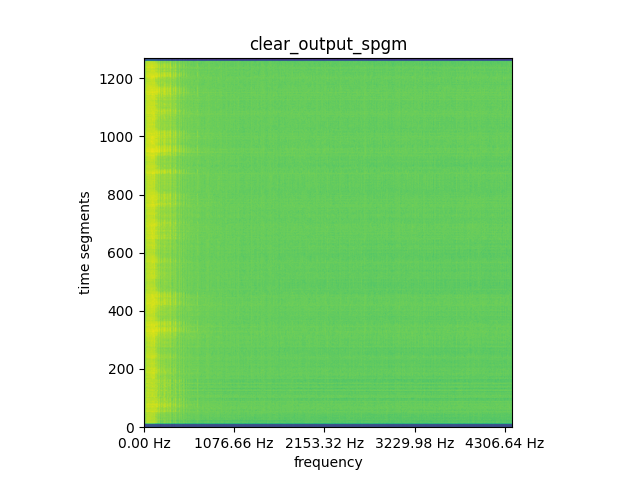
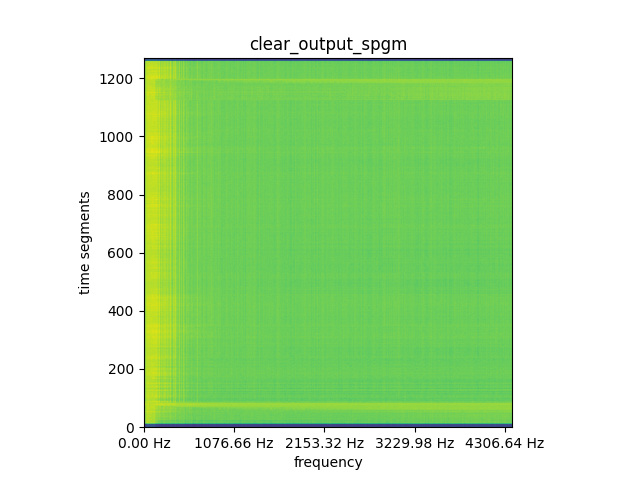
piano basis vectors in drnn

diff --git a/brahms_restore_ml/drnn/model.py b/brahms_restore_ml/drnn/model.py
@@ -2,6 +2,7 @@ import tensorflow as tf
 from tensorflow.keras.layers import Input, SimpleRNN, Dense, TimeDistributed, Layer, LSTM, Bidirectional, BatchNormalization, Concatenate
 from tensorflow.keras.models import Model
 from ..nmf.nmf import NUM_SCORE_NOTES
+from .drnn import TRAIN_SEQ_LEN
 
 class Standardize(Layer):
     def __init__(self, mean, std, **kwargs):
@@ -39,7 +40,7 @@ class TimeFreqMasking(Layer):
     def call(self, inputs):
         y_hat_self, y_hat_other, x_mixed = inputs
         mask = tf.abs(y_hat_self) / (tf.abs(y_hat_self) + tf.abs(y_hat_other) + self.epsilon)
-        y_tilde_self = mask * x_mixed
+        y_tilde_self = mask[:, :TRAIN_SEQ_LEN, :] * x_mixed
         return y_tilde_self
     
     # config only contains things in __init__
@@ -68,6 +69,14 @@ def discrim_loss(y_true, y_pred):
     )
     
 
+def is_last_rnn(num_layers, first_layer_type, rnn_index):
+    if first_layer_type == 'Dense':
+        return ((num_layers == 4 and rnn_index == 1) or 
+                (num_layers == 5 and rnn_index == 2))
+    else:
+        return ((num_layers == 3 and rnn_index == 1) or 
+                (num_layers == 4 and rnn_index == 2))
+
 def make_model(features, sequences, name='Model', epsilon=10 ** (-10),
                     loss_const=0.05, config=None, t_mean=None, t_std=None, 
                     optimizer=tf.keras.optimizers.RMSprop(),
@@ -84,30 +93,38 @@ def make_model(features, sequences, name='Model', epsilon=10 ** (-10),
 
     if config is not None:
         num_layers = len(config['layers'])
-        prev_layer_type = None  # Works b/c all RNN stacks are size > 1
+        rnn_index = -1
+        prev_layer_type, first_layer_type = None, None  # Works b/c all RNN stacks are size > 1
         for i in range(num_layers):
             layer_config = config['layers'][i]
             curr_layer_type = layer_config['type']
+            if i == 0:
+                first_layer_type = curr_layer_type
+            if curr_layer_type == 'RNN':    # Works b/c RNN layers contiguous
+                rnn_index += 1
 
             # Standardize option
             if config['scale'] and i == 0:
                 x = Standardize(t_mean, t_std) (input_layer)
 
-            # Add skip connection if necessary
+            # Add skip connection if necessary (and not using bv's)
             if (config['rnn_res_cntn'] and prev_layer_type is not None and
-                prev_layer_type != 'Dense' and curr_layer_type == 'Dense'):
+                    prev_layer_type != 'Dense' and curr_layer_type == 'Dense' and #):
+                    not use_bv):
                 x = Concatenate() ([x, input_layer])
     
             if curr_layer_type == 'RNN':
                 if config['bidir']:
-                    x = Bidirectional(SimpleRNN(features // layer_config['nrn_div'], 
+                    x = Bidirectional(SimpleRNN(features if (use_bv and is_last_rnn(num_layers, first_layer_type, rnn_index)) else 
+                                                features // layer_config['nrn_div'], 
                             activation=layer_config['act'], 
                             use_bias=config['bias_rnn'],
                             dropout=config['rnn_dropout'][0],
                             recurrent_dropout=config['rnn_dropout'][1],
                             return_sequences=True)) (input_layer if (i == 0 and not config['scale']) else x)
                 else:
-                    x = SimpleRNN(features // layer_config['nrn_div'], 
+                    x = SimpleRNN(features if (use_bv and is_last_rnn(num_layers, first_layer_type, rnn_index)) else 
+                                  features // layer_config['nrn_div'], 
                             activation=layer_config['act'], 
                             use_bias=config['bias_rnn'],
                             dropout=config['rnn_dropout'][0],
@@ -116,14 +133,16 @@ def make_model(features, sequences, name='Model', epsilon=10 ** (-10),
 
             elif curr_layer_type == 'LSTM':
                 if config['bidir']:
-                    x = Bidirectional(LSTM(features // layer_config['nrn_div'], 
+                    x = Bidirectional(LSTM(features if (use_bv and is_last_rnn(num_layers, first_layer_type, rnn_index)) else 
+                                           features // layer_config['nrn_div'], 
                             activation=layer_config['act'], 
                             use_bias=config['bias_rnn'],
                             dropout=config['rnn_dropout'][0],
                             recurrent_dropout=config['rnn_dropout'][1],
                             return_sequences=True)) (input_layer if (i == 0 and not config['scale']) else x)
                 else:
-                    x = LSTM(features // layer_config['nrn_div'], 
+                    x = LSTM(features if (use_bv and is_last_rnn(num_layers, first_layer_type, rnn_index)) else 
+                             features // layer_config['nrn_div'],
                             activation=layer_config['act'], 
                             use_bias=config['bias_rnn'],
                             dropout=config['rnn_dropout'][0],
@@ -133,6 +152,10 @@ def make_model(features, sequences, name='Model', epsilon=10 ** (-10),
                 if i == (num_layers - 1):   # Last layer is fork layer
                     # Reverse standardization at end of model if appropriate
                     if config['scale']:
+                        if use_bv:  # new
+                            stdized_bv_input = Standardize(t_mean, t_std) (bv_input)
+                            x = Concatenate(axis=-2) ([stdized_bv_input, x])
+
                         piano_hat = TimeDistributed(Dense(features // layer_config['nrn_div'],
                                                         activation=layer_config['act'], 
                                                         use_bias=config['bias_dense']), 
@@ -151,6 +174,9 @@ def make_model(features, sequences, name='Model', epsilon=10 ** (-10),
                         noise_hat = UnStandardize(t_mean, t_std) (noise_hat)
                 
                     else:
+                        if use_bv:  # new
+                            x = Concatenate(axis=-2) ([bv_input, x])
+
                         piano_hat = TimeDistributed(Dense(features // layer_config['nrn_div'],
                                                         activation=layer_config['act'], 
                                                         use_bias=config['bias_dense']), 
@@ -364,7 +390,13 @@ def make_model(features, sequences, name='Model', epsilon=10 ** (-10),
         x = SimpleRNN(features // 2, 
                     activation='relu', 
                     return_sequences=True) (input_layer) 
-        x = SimpleRNN(features // 2, 
+        if use_bv:  # new
+            x = SimpleRNN(features, 
+                    activation='relu',
+                    return_sequences=True) (x)
+            x = Concatenate(axis=-2) ([bv_input, x])    # TODO: bvs before or after music in time?
+        else:
+            x = SimpleRNN(features // 2, 
                 activation='relu',
                 return_sequences=True) (x)
         piano_hat = TimeDistributed(Dense(features), name='piano_hat') (x)  # source 1 branch

diff --git a/brahms_restore_ml/drnn/drnn.py b/brahms_restore_ml/drnn/drnn.py
@@ -95,22 +95,27 @@ def evaluate_source_sep(x_train_files, y1_train_files, y2_train_files,
     optimizer = (tf.keras.optimizers.RMSprop(clipvalue=opt_clip_val, learning_rate=opt_lr) if 
                     opt_name == 'RMSprop' else
                 tf.keras.optimizers.Adam(clipvalue=opt_clip_val, learning_rate=opt_lr))
+    # Instantiate piano basis vectors if needed
+    piano_basis_vectors = None
+    if use_basis_vectors:
+        piano_basis_vectors = get_basis_vectors(PIANO_WDW_SIZE, ova=True, avg=True, debug=False, a430hz=tuned_a430hz, 
+            score=True, filepath=os.path.dirname(os.path.realpath(__file__)) + '/../nmf/np_saves_bv/basis_vectors')
 
     # Note - If not numpy, consider if dataset2. If numpy, supply x files.
     train_generator = nn_data_generator(y1_train_files, y2_train_files, num_train,
             batch_size=batch_size, num_seq=n_seq, num_feat=n_feat, min_sig_len=min_sig_len,
             dmged_piano_artificial_noise=dataset2, data_path=data_path,
             x_files=x_train_files, from_numpy=data_from_numpy, tuned_a430hz=tuned_a430hz,
-            use_bv=use_basis_vectors)
+            piano_basis_vectors=piano_basis_vectors)
     validation_generator = nn_data_generator(y1_val_files, y2_val_files, num_val,
             batch_size=batch_size, num_seq=n_seq, num_feat=n_feat, min_sig_len=min_sig_len,
             dmged_piano_artificial_noise=dataset2, data_path=data_path,
             x_files=x_val_files, from_numpy=data_from_numpy, tuned_a430hz=tuned_a430hz,
-            use_bv=use_basis_vectors)
+            piano_basis_vectors=piano_basis_vectors)
 
     train_dataset = tf.data.Dataset.from_generator(
         make_gen_callable(train_generator), 
-        output_types=((tf.float32, tf.float32), tf.float32) if use_basis_vectors else 
+        output_types=((tf.float32, tf.float32), (tf.float32)) if use_basis_vectors else 
                         (tf.float32, tf.float32),
         # output_types=(tf.float32, tf.float32),
         output_shapes=(((None, NUM_SCORE_NOTES, n_feat), (None, n_seq, n_feat)), (None, n_seq, n_feat*2))
@@ -119,7 +124,7 @@ def evaluate_source_sep(x_train_files, y1_train_files, y2_train_files,
     )
     val_dataset = tf.data.Dataset.from_generator(
         make_gen_callable(validation_generator), 
-        output_types=((tf.float32, tf.float32), tf.float32) if use_basis_vectors else 
+        output_types=((tf.float32, tf.float32), (tf.float32)) if use_basis_vectors else 
                         (tf.float32, tf.float32),
         # output_types=(tf.float32, tf.float32),
         output_shapes=(((None, NUM_SCORE_NOTES, n_feat), (None, n_seq, n_feat)), (None, n_seq, n_feat*2))
@@ -644,13 +649,19 @@ def infer_old(x, phases, wdw_size, model, # loss_const, # optimizer,
                                           orig_sig_type, ova=True, debug=False)
     wavfile.write(output_path + 'noise' + name_addon + '.wav', sr, synthetic_sig)
 
-def infer(sample, infer_model):
+def infer(sample, infer_model, piano_bvs=None):
     import tensorflow as tf
 
     deficit = infer_model.layers[0].input_shape[0][1] - sample.shape[0]
     sample = np.concatenate((sample, np.zeros((deficit, sample.shape[1]))))
     sample = np.expand_dims(sample, axis=0)   # Give a samples dimension (1 sample)
-    print('brahms spgm block shape to be predicted on (padded) (w/ a batch dimension):', sample.shape)
+    if piano_bvs is not None:
+        batch_piano_bvs = np.expand_dims(piano_bvs, axis=0)
+        sample = (batch_piano_bvs, sample)
+        print('brahms spgm block shape to be predicted on (padded) (w/ a batch dimension):', sample[1].shape)
+        print('piano basis vectors shape to be predicted on (w/ a batch dimension):', sample[0].shape)
+    else:
+        print('brahms spgm block shape to be predicted on (padded) (w/ a batch dimension):', sample.shape)
     result_spgms = infer_model.predict(sample, batch_size=1)
     clear_spgm, noise_spgm = tf.split(result_spgms[:-1, :, :], num_or_size_splits=2, axis=0)
     clear_spgm = np.squeeze(clear_spgm.numpy())
@@ -668,7 +679,8 @@ def restore_with_drnn(output_path, recent_model_path,
                        opt_name, opt_clip_val, opt_lr, min_sig_len,
                        test_filepath=None, test_sig=None, test_sr=None, 
                        wdw_size=PIANO_WDW_SIZE, epsilon=EPSILON,
-                       pc_run=False, name_addon='', use_basis_vectors=False):
+                       pc_run=False, name_addon='', tuned_a430hz=False,
+                       use_basis_vectors=False):
     import tensorflow as tf
 
     infer_model = tf.keras.models.load_model(recent_model_path, compile=False)
@@ -691,8 +703,10 @@ def restore_with_drnn(output_path, recent_model_path,
     # b_slice_sgmts, _ = sig_length_to_spgm_shape(len(brahms_slices[0]))
     # brahms_spgm, brahms_phases, bad_spgm, bad_phases = None, None, None, None
 
+    # Instantiate piano basis vectors if needed
+    piano_basis_vectors = None
     if use_basis_vectors:
-        piano_basis_vectors = get_basis_vectors(PIANO_WDW_SIZE, ova=True, avg=True, debug=False, a430hz=True, 
+        piano_basis_vectors = get_basis_vectors(PIANO_WDW_SIZE, ova=True, avg=True, debug=False, a430hz=tuned_a430hz, 
             score=True, filepath=os.path.dirname(os.path.realpath(__file__)) + '/../nmf/np_saves_bv/basis_vectors')
 
     test_spgm, test_phases = make_spectrogram(test_sig, wdw_size, epsilon, ova=True, debug=False)
@@ -700,8 +714,8 @@ def restore_with_drnn(output_path, recent_model_path,
     input_split_index = 0
     while input_split_index < test_spgm.shape[0]:
         model_input_spgm = test_spgm[input_split_index: (input_split_index+TRAIN_SEQ_LEN)]
-        if use_basis_vectors:
-            model_input_spgm = np.concatenate((piano_basis_vectors, model_input_spgm))
+        # if use_basis_vectors:
+        #     model_input_spgm = np.concatenate((piano_basis_vectors, model_input_spgm))
         
         # deficit = infer_model.layers[0].input_shape[0][1] - model_input_spgm.shape[0]
         # model_input_spgm = np.concatenate((model_input_spgm, np.zeros((deficit, model_input_spgm.shape[1]))))
@@ -716,7 +730,7 @@ def restore_with_drnn(output_path, recent_model_path,
         # restored_spgm = clear_spgm if restored_spgm is None else np.concatenate((restored_spgm, clear_spgm))
         # bad_spgm = noise_spgm if bad_spgm is None else np.concatenate((bad_spgm, noise_spgm))
         
-        clear_spgm, noise_spgm = infer(model_input_spgm, infer_model)
+        clear_spgm, noise_spgm = infer(model_input_spgm, infer_model, piano_bvs=piano_basis_vectors)
 
         restored_spgm = clear_spgm if restored_spgm is None else np.concatenate((restored_spgm, clear_spgm))
         bad_spgm = noise_spgm if bad_spgm is None else np.concatenate((bad_spgm, noise_spgm))

diff --git a/brahms_restore_ml/drnn/data.py b/brahms_restore_ml/drnn/data.py
@@ -174,10 +174,10 @@ def nn_data_generator(y1_files, y2_files, num_samples, batch_size, num_seq, num_
                         min_sig_len, dmged_piano_artificial_noise=False,
                         src_amp_low=0.75, src_amp_high=1.15, 
                         data_path=None, x_files=None, from_numpy=False, bare_noise=True,    # new
-                        tuned_a430hz=False, use_bv=False): # new
-    if use_bv:
-        piano_basis_vectors = get_basis_vectors(PIANO_WDW_SIZE, ova=True, avg=True, debug=False, a430hz=True, 
-            score=True, filepath=os.path.dirname(os.path.realpath(__file__)) + '/../nmf/np_saves_bv/basis_vectors')
+                        tuned_a430hz=False, piano_basis_vectors=None): # new
+    # if use_bv:
+    #     piano_basis_vectors = get_basis_vectors(PIANO_WDW_SIZE, ova=True, avg=True, debug=False, a430hz=True, 
+    #         score=True, filepath=os.path.dirname(os.path.realpath(__file__)) + '/../nmf/np_saves_bv/basis_vectors')
     # TEMP - bare_noise enabled by default
     while True:
         for offset in range(0, num_samples, batch_size):
@@ -202,7 +202,7 @@ def nn_data_generator(y1_files, y2_files, num_samples, batch_size, num_seq, num_
             x, y1, y2 = (np.empty((actual_batch_size, num_seq, num_feat)).astype('float32'),
                             np.empty((actual_batch_size, num_seq, num_feat)).astype('float32'),
                             np.empty((actual_batch_size, num_seq, num_feat)).astype('float32'))
-            if use_bv:
+            if piano_basis_vectors is not None:
                 batched_bvs = np.empty((actual_batch_size, NUM_SCORE_NOTES, num_feat)).astype('float32')
 
             for i in range(actual_batch_size):
@@ -242,8 +242,9 @@ def nn_data_generator(y1_files, y2_files, num_samples, batch_size, num_seq, num_
                     #                ('piano_source_bv_numpy/piano' if use_bv else
                     #                ('piano_source_numpy/piano'))))
                     if dmged_piano_artificial_noise:
-                        mix_suffix = ('dmged_mix_bv_numpy/mixed' if use_bv else 
-                                      'dmged_mix_numpy/mixed')
+                        # mix_suffix = ('dmged_mix_bv_numpy/mixed' if use_bv else 
+                        #               'dmged_mix_numpy/mixed')
+                        mix_suffix = 'dmged_mix_numpy/mixed'
                         noise_suffix = 'dmged_noise_numpy/noise'
                     else:
                         mix_suffix = ('piano_noise_a430hz_numpy/mixed' if tuned_a430hz else
@@ -260,11 +261,11 @@ def nn_data_generator(y1_files, y2_files, num_samples, batch_size, num_seq, num_
                 x[i] = mix_spgm
                 y1[i] = piano_spgm
                 y2[i] = noise_spgm
-                if use_bv:
+                if piano_basis_vectors is not None:
                     batched_bvs[i] = piano_basis_vectors
             # yield ([x, np.concatenate((y1, y2), axis=-1)])
-            if use_bv:
-                yield ([batched_bvs, x], np.concatenate((y1, y2), axis=-1))
+            if piano_basis_vectors is not None:
+                yield ((batched_bvs, x), np.concatenate((y1, y2), axis=-1))
             else:
                 yield (x, np.concatenate((y1, y2), axis=-1))
 

diff --git a/restore_with_drnn.py b/restore_with_drnn.py
@@ -89,7 +89,7 @@ def run_top_gs_result(num, best_config,
                         # training_arch_config, 
                         # train_mean, train_std, 
                         PIANO_WDW_SIZE, EPSILON,
-                        pc_run, '_'+num+'of'+combos_str, use_basis_vectors))
+                        pc_run, '_'+num+'of'+combos_str, tuned_a430hz, use_basis_vectors))
     # TEMP - old
     # process_infer = multiprocessing.Process(target=restore_with_drnn, args=(infer_output_path, recent_model_path, wdw_size, epsilon,
     #                     train_loss_const, train_opt_name, train_opt_clipval, train_opt_lr, brahms_path, None, None,
@@ -148,7 +148,7 @@ def main():
     # NEW
     output_file_addon = ''
     data_from_numpy = True
-    tuned_a430hz = False
+    tuned_a430hz = True
     basis_vector_features = True
     if tuned_a430hz:
         recent_model_path += '_a430hz'
@@ -174,7 +174,7 @@ def main():
         restore_with_drnn(infer_output_path, recent_model_path, 
                           train_opt_name, train_opt_clipval, train_opt_lr,
                           MIN_SIG_LEN, test_filepath=brahms_path, pc_run=pc_run,
-                          name_addon=output_file_addon,
+                          name_addon=output_file_addon, tuned_a430hz=tuned_a430hz,
                           use_basis_vectors=basis_vector_features)
     else:
         train_configs, arch_config_optns = get_hp_configs(arch_config_path, pc_run=pc_run)
@@ -475,6 +475,7 @@ def main():
                                     test_sig=test_sig, test_sr=test_sr,
                                     # config=training_arch_config, t_mean=train_mean, t_std=train_std, 
                                     pc_run=pc_run, name_addon=output_file_addon,
+                                    tuned_a430hz=tuned_a430hz,
                                     use_basis_vectors=basis_vector_features)
                 else:
                     restore_with_drnn(infer_output_path, recent_model_path, # wdw_size, epsilon,
@@ -484,6 +485,7 @@ def main():
                                     test_filepath=brahms_path,
                                     # config=training_arch_config, t_mean=train_mean, t_std=train_std, 
                                     pc_run=pc_run, name_addon=output_file_addon,
+                                    tuned_a430hz=tuned_a430hz,
                                     use_basis_vectors=basis_vector_features)
 
         # GRID SEARCH
